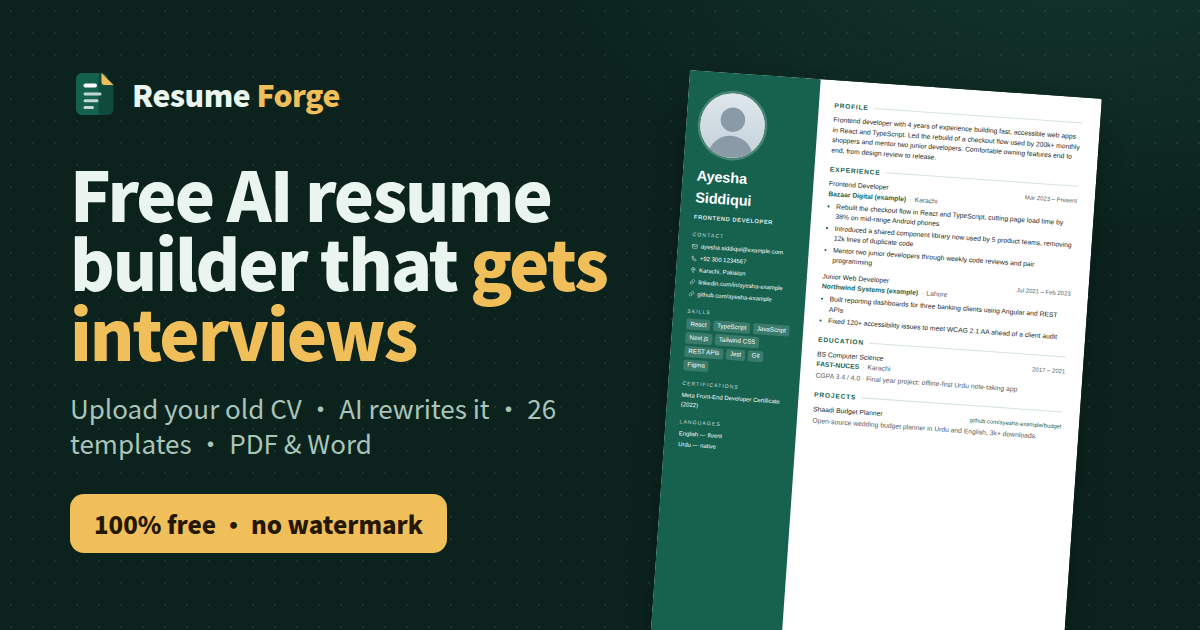
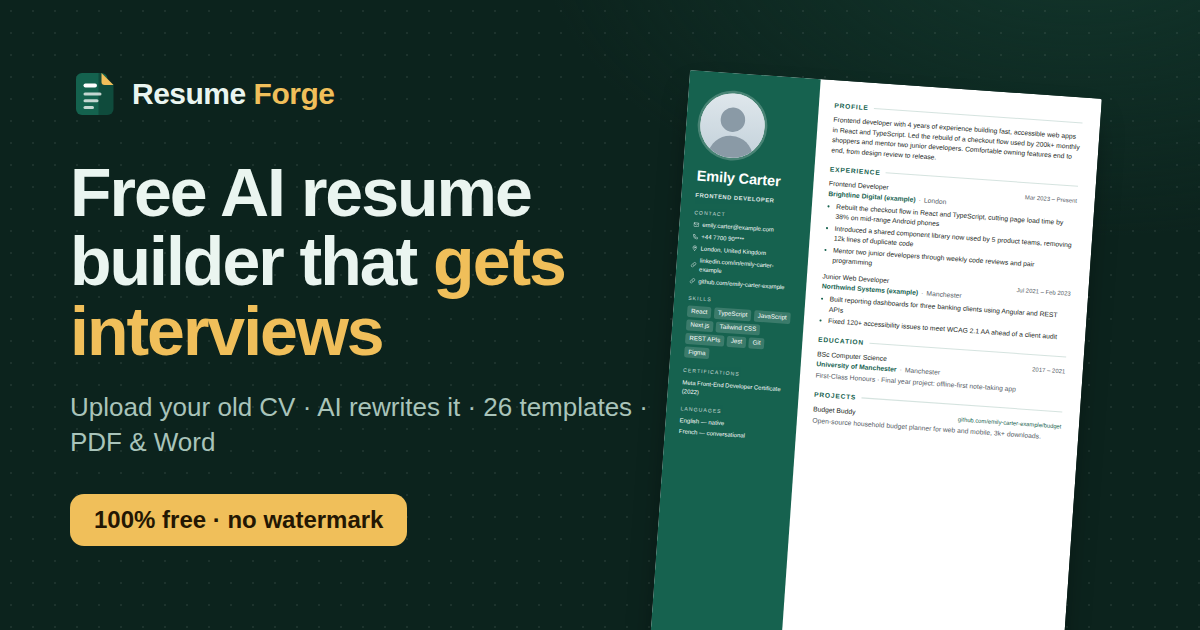
Title follows the resume name; Western sample; layout fixes
- Document title now follows 'Name — Job title' until the user renames it,
  and stale automatic titles left from an older name are repaired on open.
  Importing a CV of a different person gives it its own title.
- Default sample is now Emily Carter (London) with a masked phone number;
  share image regenerated.
- Fix sideways scrolling: builder at laptop widths (grid column and crowded
  top bar), cover letter page on mobile (inline 2-column grid), long email
  on the contact page. Save link no longer cut mid-word.

Claude-Session: https://claude.ai/code/session_01EConMqtbtwwk7AcSy1ZoKi

diff --git a/src/styles/site.css b/src/styles/site.css
@@ -47,7 +47,7 @@
 [hidden]{display:none!important}
 html{-webkit-text-size-adjust:100%;scroll-behavior:smooth}
 @media (prefers-reduced-motion:reduce){html{scroll-behavior:auto}*,*::before,*::after{animation-duration:.01ms!important;transition-duration:.01ms!important}}
-body{margin:0;background:var(--bg);color:var(--ink);font-family:var(--f-ui);font-size:15px;line-height:1.55;-webkit-font-smoothing:antialiased}
+body{margin:0;background:var(--bg);color:var(--ink);font-family:var(--f-ui);font-size:15px;line-height:1.55;-webkit-font-smoothing:antialiased;overflow-wrap:break-word}
 img,svg{max-width:100%}
 a{color:var(--accent);text-underline-offset:3px}
 button,input,textarea,select{font:inherit;color:inherit}
@@ -272,9 +272,11 @@ p{margin:0}
 .swatch-row{display:flex;gap:8px;flex-wrap:wrap}
 .swatch{width:28px;height:28px;border-radius:50%;border:3px solid var(--surface);box-shadow:0 0 0 1px var(--line-2);cursor:pointer;padding:0}
 .swatch[aria-pressed="true"]{box-shadow:0 0 0 2px var(--ink)}
+.detail-even{grid-template-columns:minmax(0,1fr) minmax(0,1fr)}
 @media (max-width:900px){.detail{grid-template-columns:1fr}.detail-preview{position:static}}
 
 .prose{max-width:760px;display:grid;gap:16px;font-size:16px}
+.prose>*{min-width:0;overflow-wrap:anywhere}
 .prose h2{font-size:26px;margin-top:18px}
 .prose h3{font-size:19px;margin-top:8px;font-family:var(--f-ui);font-weight:700;letter-spacing:-.01em}
 .prose ul,.prose ol{margin:0;padding-left:22px;display:grid;gap:8px}

diff --git a/src/styles/app.css b/src/styles/app.css
@@ -11,7 +11,12 @@ body.app-body{overflow:hidden;display:grid;grid-template-rows:auto 1fr;height:10
 .save-state.err i{background:var(--bad)}
 .save-state button{border:0;background:none;color:var(--accent);font-weight:700;cursor:pointer;padding:0;font-size:12.5px}
 .bar-actions{margin-left:auto;display:flex;align-items:center;gap:8px}
-.app{display:grid;grid-template-columns:72px minmax(360px,470px) 1fr;min-height:0}
+.save-state{min-width:0;overflow:hidden;flex:0 0 auto}
+.app-bar .doc-title{flex:0 1 auto;min-width:80px}
+@media (max-width:1500px){.save-state .lbl{display:none}}
+.save-state button{min-width:0;overflow:hidden;text-overflow:ellipsis;white-space:nowrap}
+@media (min-width:981px) and (max-width:1200px){.app-bar #btnImport{display:none}}
+.app{display:grid;grid-template-columns:72px minmax(360px,470px) minmax(0,1fr);min-height:0}
 .rail{background:var(--surface);border-right:1px solid var(--line);display:flex;flex-direction:column;gap:4px;padding:10px 8px}
 .rail button{border:0;background:transparent;border-radius:10px;padding:10px 4px 8px;display:grid;justify-items:center;gap:4px;cursor:pointer;color:var(--muted);font-size:11.5px;font-weight:600}
 .rail button svg{width:22px;height:22px}
